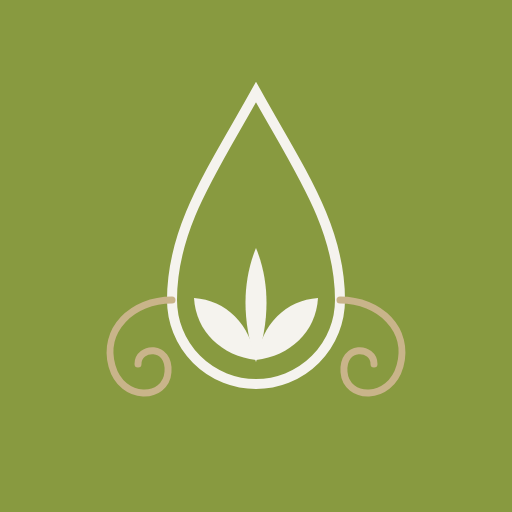
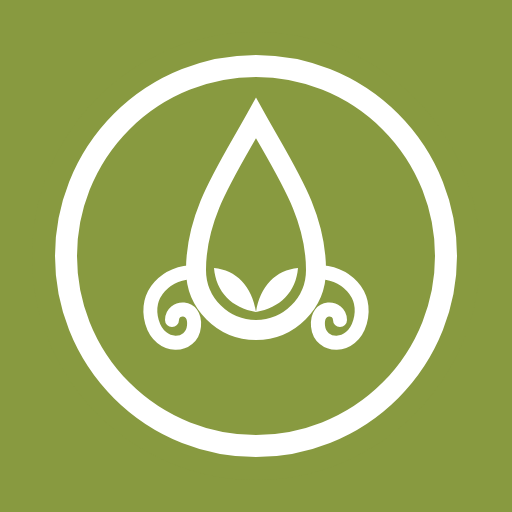
Add files via upload

Changed region(s): [[0.0938, 0.0938, 0.9062, 0.9062]]

diff --git a/app.js b/app.js
@@ -3,10 +3,10 @@ import { getAuth, onAuthStateChanged, signInWithEmailAndPassword, createUserWith
   from "https://www.gstatic.com/firebasejs/10.12.2/firebase-auth.js";
 import { initializeFirestore, persistentLocalCache, persistentMultipleTabManager, collection, doc, onSnapshot,
   addDoc, setDoc, deleteDoc, writeBatch, serverTimestamp } from "https://www.gstatic.com/firebasejs/10.12.2/firebase-firestore.js";
-import { giacenzaOmaggi, daRicontattare, linkWhatsApp, euro, chiave, IO, STORICO, completaCostiScorta } from "./calc.js?v=47";
-import { convertiFoglio, parseOmaggi, dividiProdotti, abbinaSigla } from "./importa.js?v=47";
+import { giacenzaOmaggi, daRicontattare, linkWhatsApp, euro, chiave, IO, STORICO, completaCostiScorta } from "./calc.js?v=49";
+import { convertiFoglio, parseOmaggi, dividiProdotti, abbinaSigla } from "./importa.js?v=49";
 import { qtaDi, isMia, totaleAcquisto, indiceProdotti, costoRiga, calcolaVendita, magazzino, valoreMagazzino, valoreInArrivo, valoreTolti, costiDaTotale, stimaTotale, fatturaInAttesa,
-  riepilogo, mesiPresenti, venditeComeOrdini, acquistiComeOrdini, convertiOrdini } from "./model.js?v=47";
+  riepilogo, mesiPresenti, venditeComeOrdini, acquistiComeOrdini, convertiOrdini } from "./model.js?v=49";
 
 // ---------- Configurazione ----------
 // Il file viene letto come testo: funziona con o senza "export", con le righe import di Firebase e con i commenti.
@@ -785,6 +785,19 @@ function margineMagazzino() {
     }
   }
   return { margine: Math.round(margine * 100) / 100, pezzi, senzaPrezzo, persi: valoreTolti(acquisti) };
+}
+// Quanto entrerà vendendo la merce in magazzino: ai tuoi prezzi; quella senza prezzo la conto al costo (prudente)
+function incassoMagazzino() {
+  let valore = 0, senzaPrezzo = 0;
+  for (const g of magazzino(acquisti, vendite)) {
+    if (g.confezione) { valore += g.disponibili; continue; }
+    for (const f of g.fonti) {
+      const p = acquistoDi(f.acquistoId)?.prodotti.find(x => x.id === f.prodottoId);
+      const prezzo = numIt(p?.prezzo) || Number(p?.valoreSet) || numIt(voceCatalogo(g.nome)?.prezzo);
+      if (prezzo) valore += prezzo * f.disponibili; else { valore += f.costoPezzo * f.disponibili; senzaPrezzo += Math.round(f.disponibili); }
+    }
+  }
+  return { valore: Math.round(valore * 100) / 100, senzaPrezzo };
 }
 
 // ---------- Togliere un pezzo dal magazzino ----------
@@ -2280,7 +2293,22 @@ function renderSoldi() {
   const max = Math.max(1, ...mesi.map(x => Math.abs(x.guadagno)));
   const tile = (cls, ico, val, lbl) => `<div class="tile ${cls}"><div class="t-ico">${ico}</div><div class="t-val num">${euro(val)}</div><div class="t-lbl">${lbl}</div></div>`;
 
+  const situazione = (() => {
+    const r2 = (n) => Math.round(n * 100) / 100, cassa = r2(tot.incassato - tot.spesoAcquisti), im = incassoMagazzino();
+    const conCrediti = r2(cassa + tot.daIncassare), finale = r2(conCrediti + im.valore);
+    const segno = (n) => `${n > 0 ? "+" : n < 0 ? "−" : ""}${euro(Math.abs(n))}`, col = (n) => n >= 0 ? "var(--green)" : "var(--red)";
+    return `<div class="card situazione"><div class="livello-eti">La tua situazione, da quando hai iniziato</div>
+      <div class="sit-riga"><span>Incassato dalle clienti</span><b class="num">${euro(tot.incassato)}</b></div>
+      <div class="sit-riga"><span>Speso in acquisti Yves Rocher</span><b class="num">−${euro(tot.spesoAcquisti)}</b></div>
+      <div class="sit-riga sit-tot"><span>Oggi sei a</span><b class="num" style="color:${col(cassa)}">${segno(cassa)}</b></div>
+      <div class="sit-riga"><span>+ Ti devono ancora le clienti</span><b class="num">${euro(tot.daIncassare)}</b></div>
+      <div class="sit-riga"><span>+ Merce in magazzino, venduta ai tuoi prezzi</span><b class="num">${euro(im.valore)}</b></div>
+      <div class="sit-riga sit-fin"><span>Quando vendi e incassi tutto</span><b class="num" style="color:${col(finale)}">${segno(finale)}</b></div>
+      <div class="hint">${tot.daIncassare ? `Solo con quello che ti devono arrivi a ${segno(conCrediti)}. ` : ""}${im.senzaPrezzo ? `${plurale(im.senzaPrezzo, "prodotto senza prezzo di vendita è contato", "prodotti senza prezzo di vendita sono contati")} a quanto l'hai pagato. ` : ""}Gli omaggi non sono contati.</div></div>`;
+  })();
+
   $("#view").innerHTML = `
+    ${situazione}
     <div class="month-nav"><button id="m-prev" aria-label="Mese prima">‹</button><div class="m">${nomeMese(meseSel)}</div>
       <button id="m-next" aria-label="Mese dopo" ${meseSel >= ultimo ? "disabled style='opacity:.3'" : ""}>›</button></div>
     <div class="big-money ${m.guadagno >= 0 ? "c-green" : "c-pink"}"><div style="font-weight:700">Guadagno del mese</div>
@@ -2302,15 +2330,6 @@ function renderSoldi() {
     ${htmlClassifica(meseSel + "-15")}
 
     <div class="section"><h2>Da sempre</h2></div>
-    ${(() => { const bil = Math.round((tot.incassato - tot.spesoAcquisti) * 100) / 100, conCrediti = Math.round((bil + tot.daIncassare) * 100) / 100;
-      return `<div class="big-money ${bil >= 0 ? "c-green" : "c-pink"}" style="padding:18px"><div>Bilancio da sempre</div>
-        <div class="v num" style="font-size:40px">${bil > 0 ? "+" : ""}${euro(bil)}</div>
-        <div style="font-size:14px;color:var(--muted)">incassato dalle clienti meno speso in acquisti Yves Rocher</div>
-        <div class="bil-righe">
-          ${tot.daIncassare ? `<div><span>Quando ti pagano quello che ti devono (${euro(tot.daIncassare)})</span><b class="num">${conCrediti > 0 ? "+" : ""}${euro(conCrediti)}</b></div>` : ""}
-          ${merce ? `<div><span>In casa hai ancora merce pagata</span><b class="num">${euro(merce)}</b></div>` : ""}
-          ${tot.spesoPerMe ? `<div><span>Prodotti presi per te</span><b class="num">${euro(tot.spesoPerMe)}</b></div>` : ""}
-        </div></div>`; })()}
     ${(() => { const idx = indiceProdotti(acquisti), gNonPagato = Math.round(somma(vendite.filter(v => !isMia(v) && !v.pagato), v => calcolaVendita(v, idx).guadagno) * 100) / 100;
       const mm = margineMagazzino(), ipotesi = Math.round((tot.guadagno + mm.margine) * 100) / 100;
       return `<div class="big-money ${tot.guadagno >= 0 ? "c-green" : "c-pink"}" style="padding:18px"><div>Guadagno da sempre</div>
@@ -2365,7 +2384,7 @@ function renderSoldi() {
     </div>
     <input type="file" id="file-restore" accept=".json,application/json" class="hidden">
     <button class="ghost" id="b-logout" style="width:100%;margin-top:22px">Esci (${esc(auth.currentUser?.email)})</button>
-    <p class="versione" style="text-align:center">v47</p>`;
+    <p class="versione" style="text-align:center">v49</p>`;
   $$("[data-mese]").forEach(b => b.addEventListener("click", () => { meseSel = b.dataset.mese; renderSoldi(); window.scrollTo({ top: 0, behavior: "smooth" }); }));
   $("#m-prev").addEventListener("click", () => { meseSel = sposta(meseSel, -1); renderSoldi(); });
   $("#m-next").addEventListener("click", () => { if (meseSel < ultimo) { meseSel = sposta(meseSel, 1); renderSoldi(); } });

diff --git a/index.html b/index.html
@@ -13,12 +13,12 @@
 <link rel="manifest" href="manifest.json">
 <link rel="apple-touch-icon" href="icon-180.png">
 <link rel="icon" href="icon.svg" type="image/svg+xml">
-<link rel="stylesheet" href="styles.css?v=47">
+<link rel="stylesheet" href="styles.css?v=49">
 </head>
 <body>
   <!-- Visibile solo se JavaScript non viene eseguito (anteprima File/Finder, Quick Look) -->
   <div id="avvio" style="padding:24px;max-width:560px;margin:40px auto;font:16px/1.5 -apple-system,sans-serif;color:#1f2a22">
-    <h2 style="margin-top:0;color:#5E6B27">Ordini Beauty · versione 47</h2>
+    <h2 style="margin-top:0;color:#5E6B27">Ordini Beauty · versione 49</h2>
     <p>Se leggi questo messaggio, la pagina è aperta in un'anteprima che non esegue l'app
       (anteprima di File o Finder, Quick Look, allegato di un'email).</p>
     <p>Apri invece l'indirizzo web dell'app in <b>Safari</b>, quello che inizia con
@@ -28,13 +28,9 @@
   <!-- Login -->
   <section id="login" class="screen hidden">
     <div class="login-box">
-      <div class="login-logo"><svg viewBox="0 0 512 512" width="76" height="76" style="border-radius:18px" aria-hidden="true"><rect width="512" height="512" fill="#889A40"/>
-<path d="M256 92C214 168 172 226 172 300a84 84 0 0 0 168 0c0-74-42-132-84-208z" fill="none" stroke="#F5F3EE" stroke-width="10"/>
-<g fill="none" stroke="#C9B48A" stroke-width="7" stroke-linecap="round">
-<path d="M172 300c-40 0-70 30-60 66s54 34 56 6-30-26-30-8"/>
-<path d="M340 300c40 0 70 30 60 66s-54 34-56 6 30-26 30-8"/></g>
-<g fill="#F5F3EE"><path d="M256 360c-6-36-30-60-62-62 2 34 28 58 62 62z"/><path d="M256 360c6-36 30-60 62-62-2 34-28 58-62 62z"/>
-<path d="M256 362c-14-40-14-80 0-114 14 34 14 74 0 114z"/></g></svg></div>
+      <div class="login-logo"><svg viewBox="0 0 512 512" width="84" height="84" aria-hidden="true"><circle cx="256" cy="256" r="224" fill="#889A40"/><circle cx="256" cy="256" r="190" fill="none" stroke="#FFFFFF" stroke-width="22"/><path d="M256 118C226 172 196 214 196 270a60 60 0 0 0 120 0c0-56-30-98-60-152z" fill="none" stroke="#FFFFFF" stroke-width="20"/>
+<g fill="none" stroke="#FFFFFF" stroke-width="14" stroke-linecap="round"><path d="M196 272c-30 0-52 22-44 50s40 26 42 4-22-20-22-6"/><path d="M316 272c30 0 52 22 44 50s-40 26-42 4 22-20 22-6"/></g>
+<path d="M256 312c-4-26-20-42-42-44 2 24 18 40 42 44zM256 312c4-26 20-42 42-44-2 24-18 40-42 44z" fill="#FFFFFF"/></svg></div>
       <h1>Ordini Beauty</h1>
       <p class="muted">Clienti, ordini e guadagni</p>
       <form id="login-form">
@@ -45,7 +41,7 @@
         <button type="button" id="btn-reset" class="link small-link">Password dimenticata</button>
         <p id="login-error" class="error"></p>
       </form>
-      <p class="versione">v47</p>
+      <p class="versione">v49</p>
     </div>
   </section>
 
@@ -77,7 +73,7 @@
 
   <!-- Diagnosi: se l'app non parte, mostra il motivo invece della pagina bianca -->
   <section id="diagnosi" class="hidden" style="padding:24px;max-width:560px;margin:40px auto;font:16px/1.5 -apple-system,sans-serif">
-    <h2 style="color:#b3261e;margin-top:0">L'app non è riuscita ad avviarsi (v47)</h2>
+    <h2 style="color:#b3261e;margin-top:0">L'app non è riuscita ad avviarsi (v49)</h2>
     <div id="diagnosi-testo"></div>
   </section>
   <script>
@@ -115,6 +111,6 @@
       Promise.all(fatti).catch(function () {}).then(function () { location.replace(location.pathname + "?r=" + Date.now()); });
     }
   </script>
-  <script type="module" src="app.js?v=47"></script>
+  <script type="module" src="app.js?v=49"></script>
 </body>
 </html>

diff --git a/styles.css b/styles.css
@@ -439,3 +439,12 @@ button.rapido::before { content: "→"; opacity: .8; }
 .bil-righe { margin-top: 12px; text-align: left; }
 .bil-righe > div { display: flex; justify-content: space-between; gap: 12px; padding: 8px 0; border-top: 1px solid var(--line); font-size: 14px; }
 .bil-righe span { color: var(--muted); }
+.situazione { padding: 18px; }
+.sit-riga { display: flex; justify-content: space-between; gap: 12px; padding: 7px 0; font-size: 14.5px; }
+.sit-riga span { color: var(--muted); }
+.sit-riga b { font-weight: 600; }
+.sit-tot { border-top: 1px solid var(--line); margin-top: 4px; padding-top: 10px; }
+.sit-tot span, .sit-fin span { color: var(--text); font-weight: 600; }
+.sit-tot b { font: 600 22px var(--serif); }
+.sit-fin { border-top: 2px solid var(--text); margin-top: 6px; padding-top: 12px; }
+.sit-fin b { font: 600 30px var(--serif); }

diff --git a/sw.js b/sw.js
@@ -1,5 +1,5 @@
 // Cache dell'interfaccia: l'app si apre anche senza rete (i dati li gestisce Firestore offline)
-const CACHE = "ordini-v47";
+const CACHE = "ordini-v49";
 const FILES = ["./", "index.html", "styles.css", "app.js", "calc.js", "importa.js", "model.js", "firebase-config.js", "manifest.json", "icon.svg", "icon-180.png", "icon-512.png"];
 self.addEventListener("install", e => { e.waitUntil(caches.open(CACHE).then(c => c.addAll(FILES)).catch(() => {})); self.skipWaiting(); });
 self.addEventListener("activate", e => {

diff --git a/model.js b/model.js
@@ -14,7 +14,7 @@
 //               costo?: numero                       // costo a pezzo noto senza fonte (solo dati convertiti)
 //            }] }
 //   Riga senza fonte e senza costo = "da ordinare" (richiesta della cliente non ancora acquistata).
-import { IO, SCORTA, STORICO, chiave, calcolaOrdine } from "./calc.js?v=47";
+import { IO, SCORTA, STORICO, chiave, calcolaOrdine } from "./calc.js?v=49";
 
 export { IO, STORICO, chiave };
 const r2 = (n) => Math.round((n + Number.EPSILON) * 100) / 100;

diff --git a/importa.js b/importa.js
@@ -1,6 +1,6 @@
 // Conversione del vecchio file Excel (Data, Cliente, Dettaglio, Omaggio, Fatturato, Entrate, Uscite, Guadagno)
 // in ordini dell'app. Funzione pura: riceve le righe del foglio come array di array.
-import { IO, STORICO, chiave } from "./calc.js?v=47";
+import { IO, STORICO, chiave } from "./calc.js?v=49";
 
 export function parseEuro(v) {
   if (typeof v === "number") return v;
